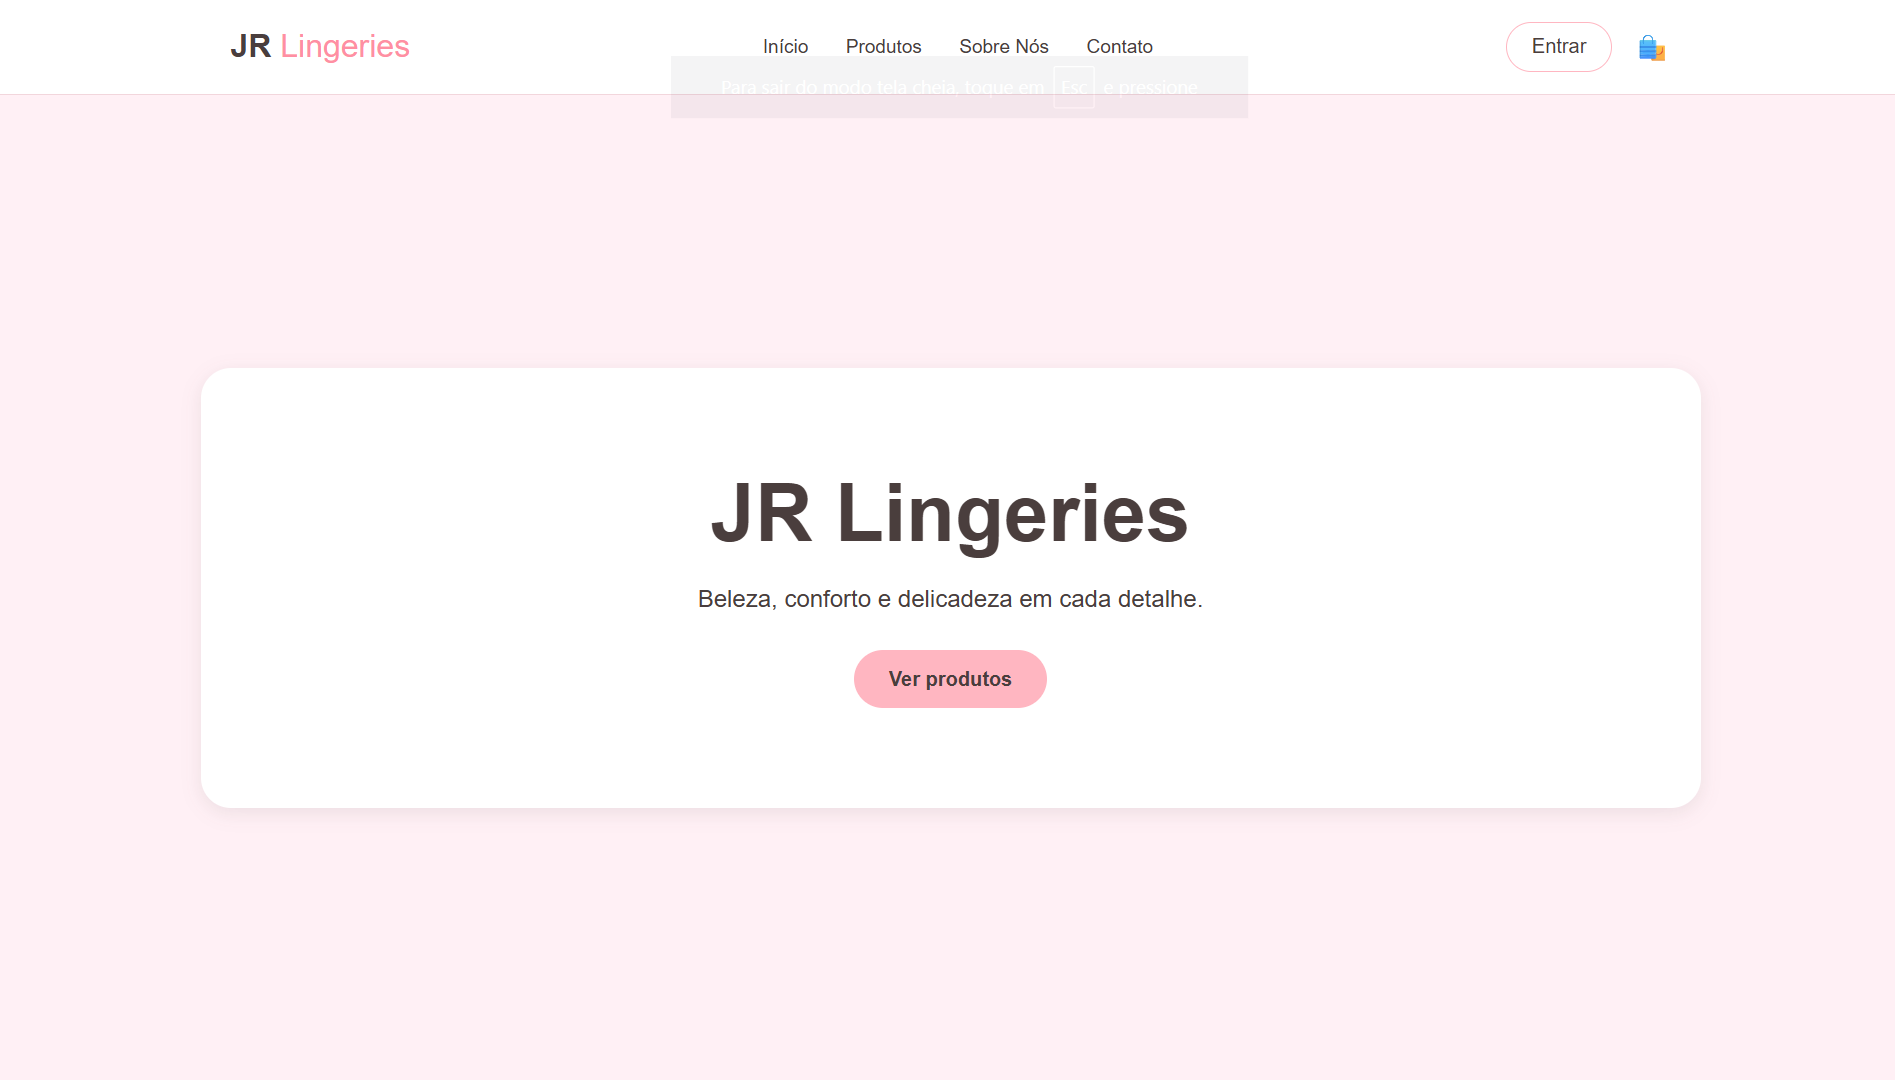
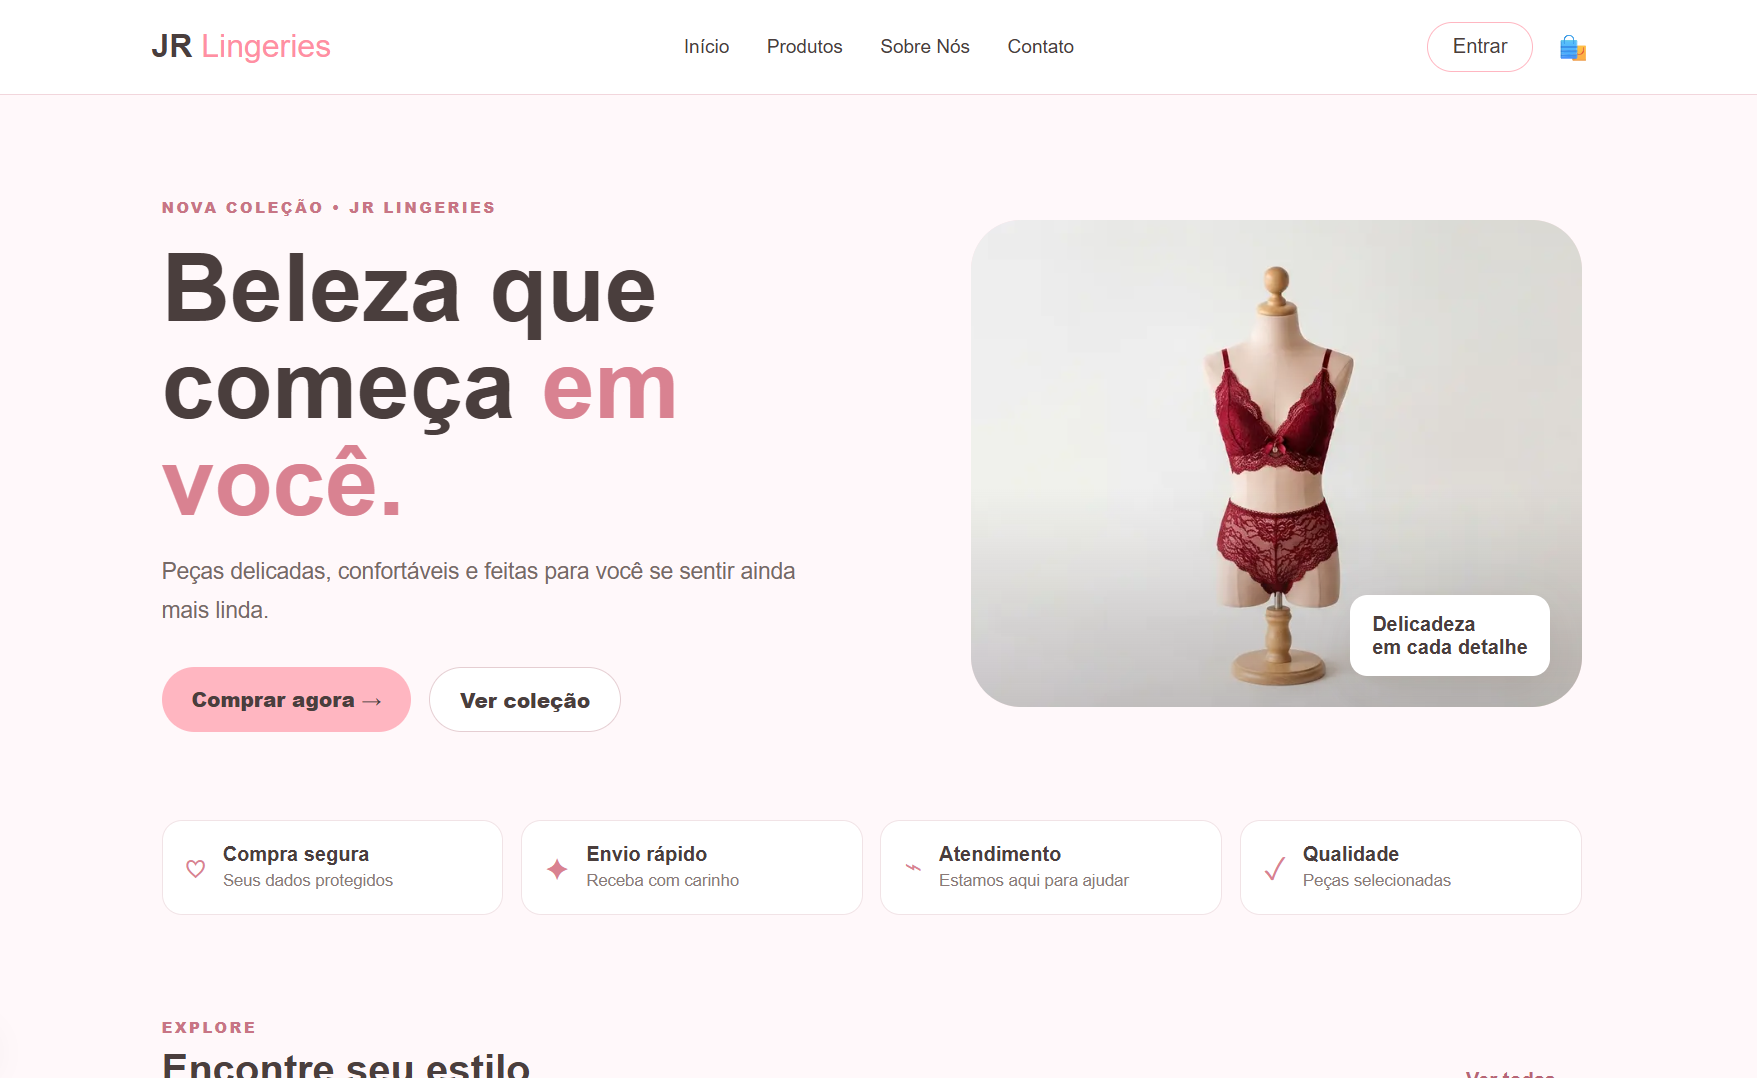
changes

diff --git a/src/components/ProjectsGrid/ProjectsGrid.jsx b/src/components/ProjectsGrid/ProjectsGrid.jsx
@@ -18,6 +18,9 @@ import landingPage from "../../assets/landing-page.png";
 import landingPageGif from "../../assets/landing-page.gif";
 import toDoList from "../../assets/to-do-list.png";
 import jrlingeries from "../../assets/jr-lingeries.png";
+import jrLingeriesGif from "../../assets/jr-lingeries-gif.gif"
+import jrLingeriesGif2 from "../../assets/jr-lingeries-gif-2.gif"
+
 
 const techStack = [
     { name: "HTML5", icon: <FaHtml5 /> },
@@ -68,7 +71,11 @@ const projects = [
     {
         title: "JR Lingeries",
         description: "Um e-commerce de roupas íntimas com login para clientes e dashboard para o responsável acompanhar leads, estoque e renda mensal arrecadada.",
-        images: [jrlingeries],
+        images: [
+            jrlingeries,
+            jrLingeriesGif,
+            jrLingeriesGif2
+        ],
         building: true,
         technologies: [
             { name: "TypeScript", icon: <SiTypescript /> },
